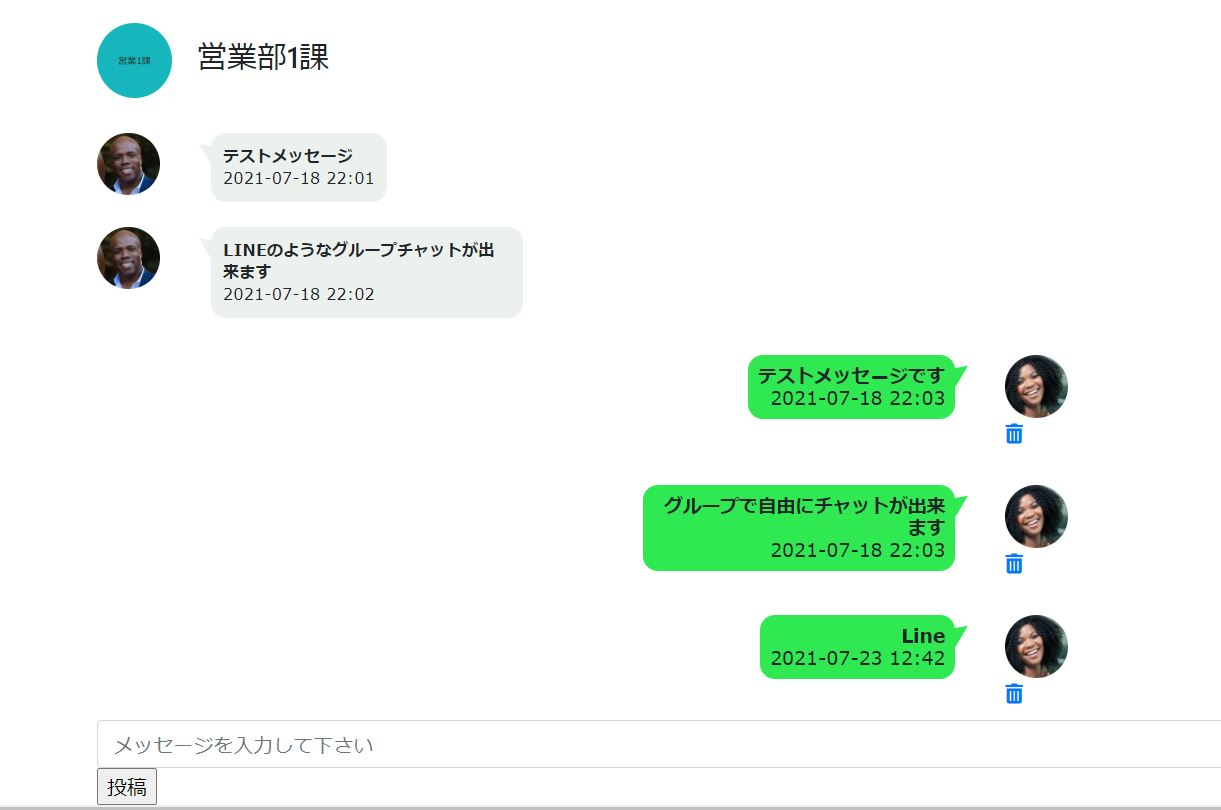
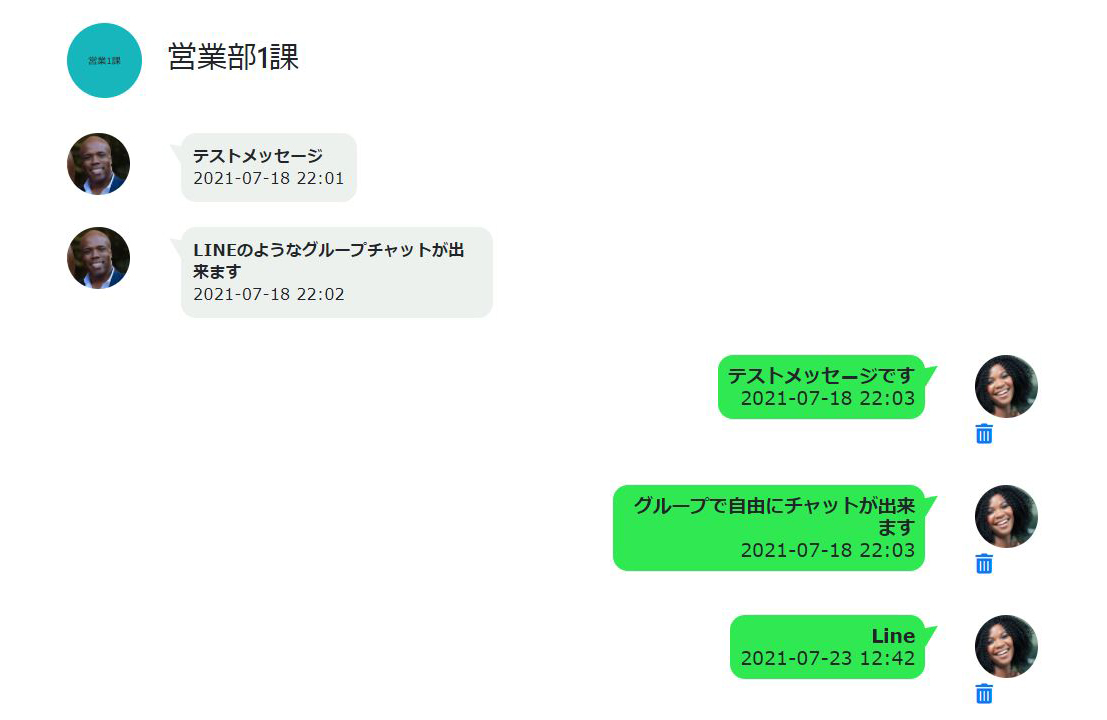
[Add]ABOUT画面写真追加

Changed region(s): [[0.0, 0.4278, 1.0, 1.0], [0.1536, 0.1833, 0.43, 0.4278], [0.0614, 0.0306, 0.2764, 0.3972]]

diff --git a/app/assets/stylesheets/homes.scss b/app/assets/stylesheets/homes.scss
@@ -68,6 +68,13 @@ div.top dl.active {
   border-bottom: dashed 3px white ;
   font-size: 20px;
   padding-bottom: 5px;
+  line-height: 1.5em;
+}
+.ans{
+  line-height: 2em;
+}
+.ans img{
+  padding-top: 30px;
 }
 .use{
   padding: 10px 10px 10px 0;
